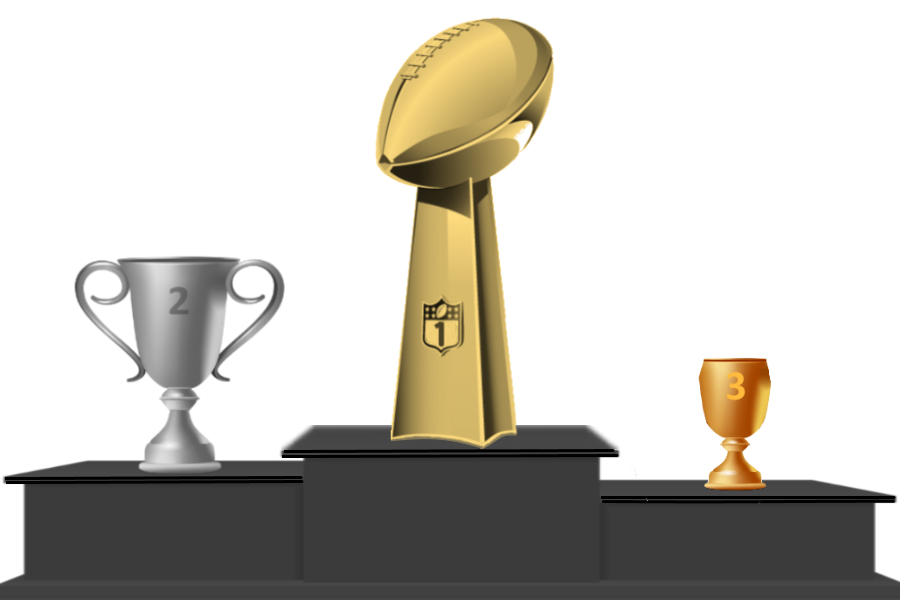
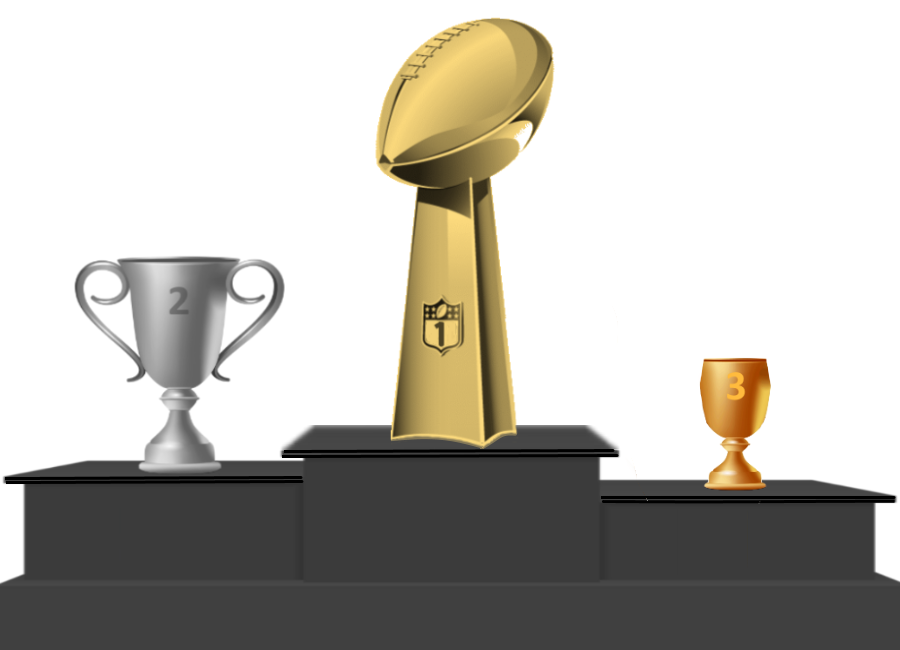
added podiums to archives

Changed region(s): [[0.0, 0.03, 0.9956, 0.84], [0.9644, 0.87, 1.0, 0.99], [0.0, 0.87, 0.0311, 0.99]]

diff --git a/archives.html b/archives.html
@@ -53,12 +53,40 @@
     </div>
   -->
 
-    <div class="box archives-divs">
-      <div><a href="/2018"><img src="podium.png" width:"900px"></a></div>
-      <div><a href="/2017">2017&nbsp;SEASON</a></div>
-      <div><a href="/2016">2016&nbsp;SEASON</a></div>
-      <div><a href="/2015">2015&nbsp;SEASON</a></div>
-      <div><a href="/2014">2014&nbsp;SEASON</a></div>
+    <div class="archives-divs">
+      <a href="/2018" style="position:relative;margin-left:auto;margin-right:auto;">
+        <div id="podiumdiv">
+          <img src="podium.png" width="900px" height="650px" >
+          <p id="firstplace" style="font-size:33px">House<br>TarGordon</p>
+          <p id="secondplace" style="font-size:26px">I call this<br>The Turkey Hole</p>
+          <p id="thirdplace" style="font-size:23px">Bruh<br>Y U Do This</p>
+          <p id="podiumyear">2 0 1 8&emsp;S E A S O N</p>
+        </div>
+      </a>
+    </div>
+
+    <div class="archives-divs">
+      <a href="/2017" style="position:relative;margin-left:auto;margin-right:auto;">
+        <div id="podiumdiv">
+          <img src="podium.png" width="900px" height="650px" >
+          <p id="firstplace" style="font-size:33px">Seasonal<br>Depression</p>
+          <p id="secondplace" style="font-size:26px">Bradys Bunch</p>
+          <p id="thirdplace" style="font-size:23px">Fly eagles Fly</p>
+          <p id="podiumyear">2 0 1 7&emsp;S E A S O N</p>
+        </div>
+      </a>
+    </div>
+
+    <div class="archives-divs">
+      <a href="/2016" style="position:relative;margin-left:auto;margin-right:auto;">
+        <div id="podiumdiv">
+          <img src="podium.png" width="900px" height="650px" >
+          <p id="firstplace" style="font-size:33px">Can We<br>Redraft?</p>
+          <p id="secondplace" style="font-size:24px">Victorious<br>Secret Commitee</p>
+          <p id="thirdplace" style="font-size:23px">LOL Notre Dame</p>
+          <p id="podiumyear">2 0 1 6&emsp;S E A S O N</p>
+        </div>
+      </a>
     </div>
 
     <footer>

diff --git a/main.css b/main.css
@@ -718,21 +718,53 @@ th, td {
 }
 
 .archives-divs{
+  display:flex;
   flex-direction: column;
-  align-items: center;
+  padding-left:15px;
+  padding-right:15px;
+  overflow-x:auto;
 }
 
-.archives-divs div{
-  padding: 15px;
-  margin: 5px;
-  border-radius: 30px;
-
+#podiumdiv{
+  margin-top: 30px;
+  margin-bottom:15px;
+  margin-left:auto;
+  margin-right:auto;
+  width:auto;
+  height:650px;
+  position:relative;
 }
 
-.archives-divs div a{
+#podiumdiv p{
+  position: absolute;
+  text-align:center;
   font-family: metropolismedium;
-  font-size: 30px;
+  font-weight: bold;
   color:white;
+}
+
+#firstplace {
+  width: 273px;
+  top:72%;
+  left:35%;
+}
+
+#secondplace{
+  width: 261px;
+  top:76%;
+  left:3.5%;
+}
+
+#thirdplace{
+  width: 256px;
+  top:78.6%;
+  left:67.8%;
+}
+
+#podiumyear{
+  font-size:40px;
+  width:900px;
+  bottom:1.5%;
 }
 
 
